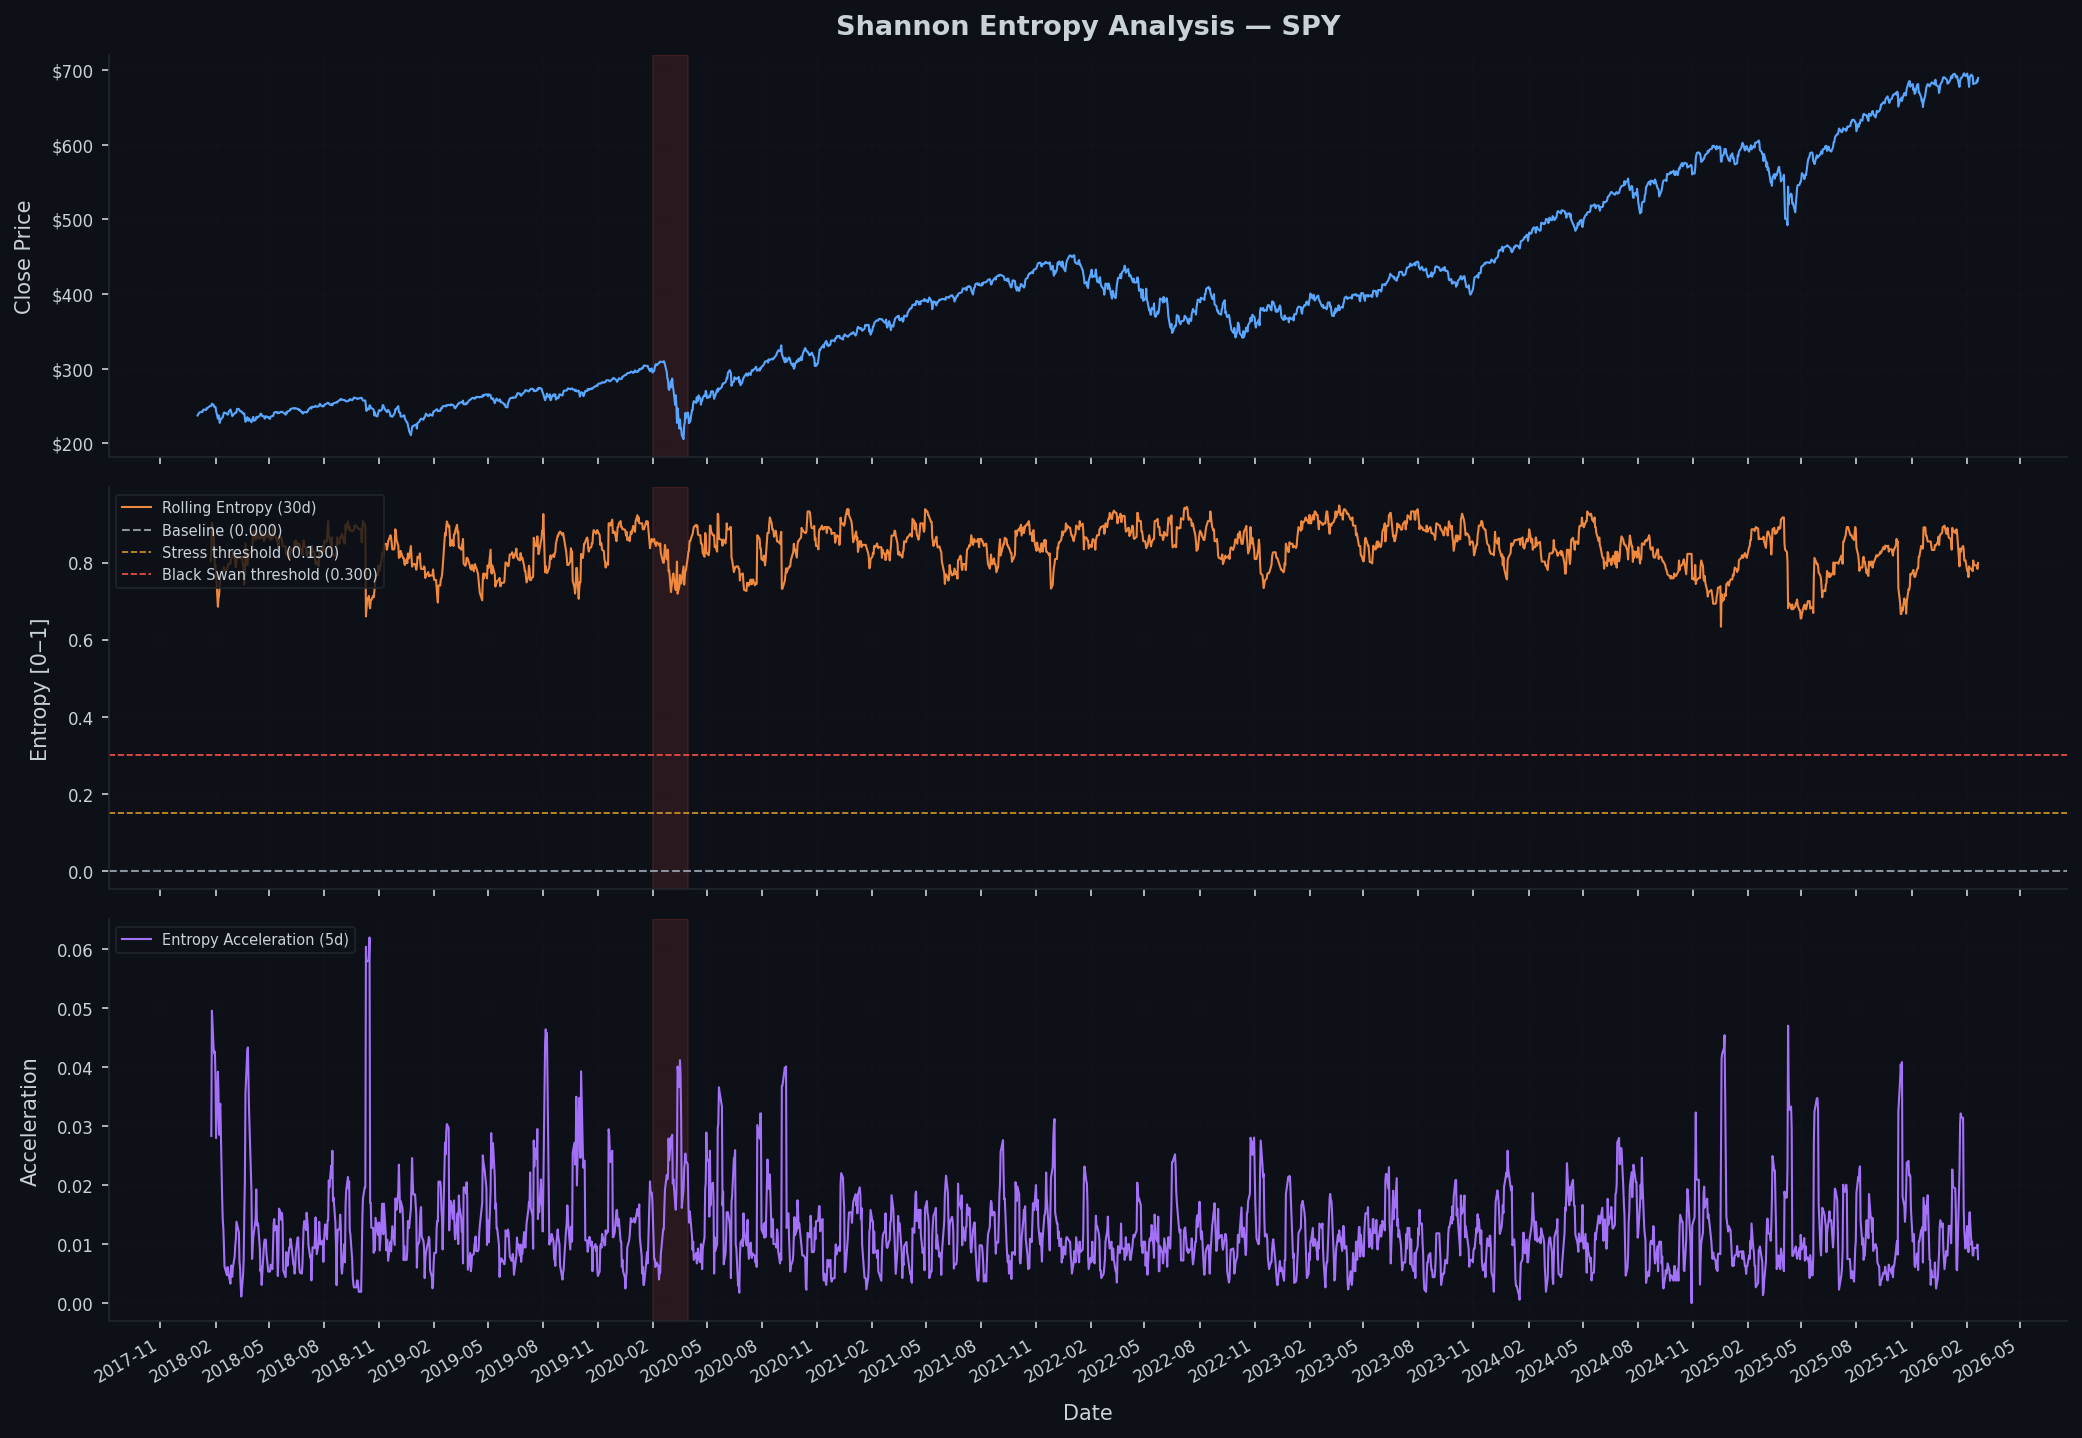
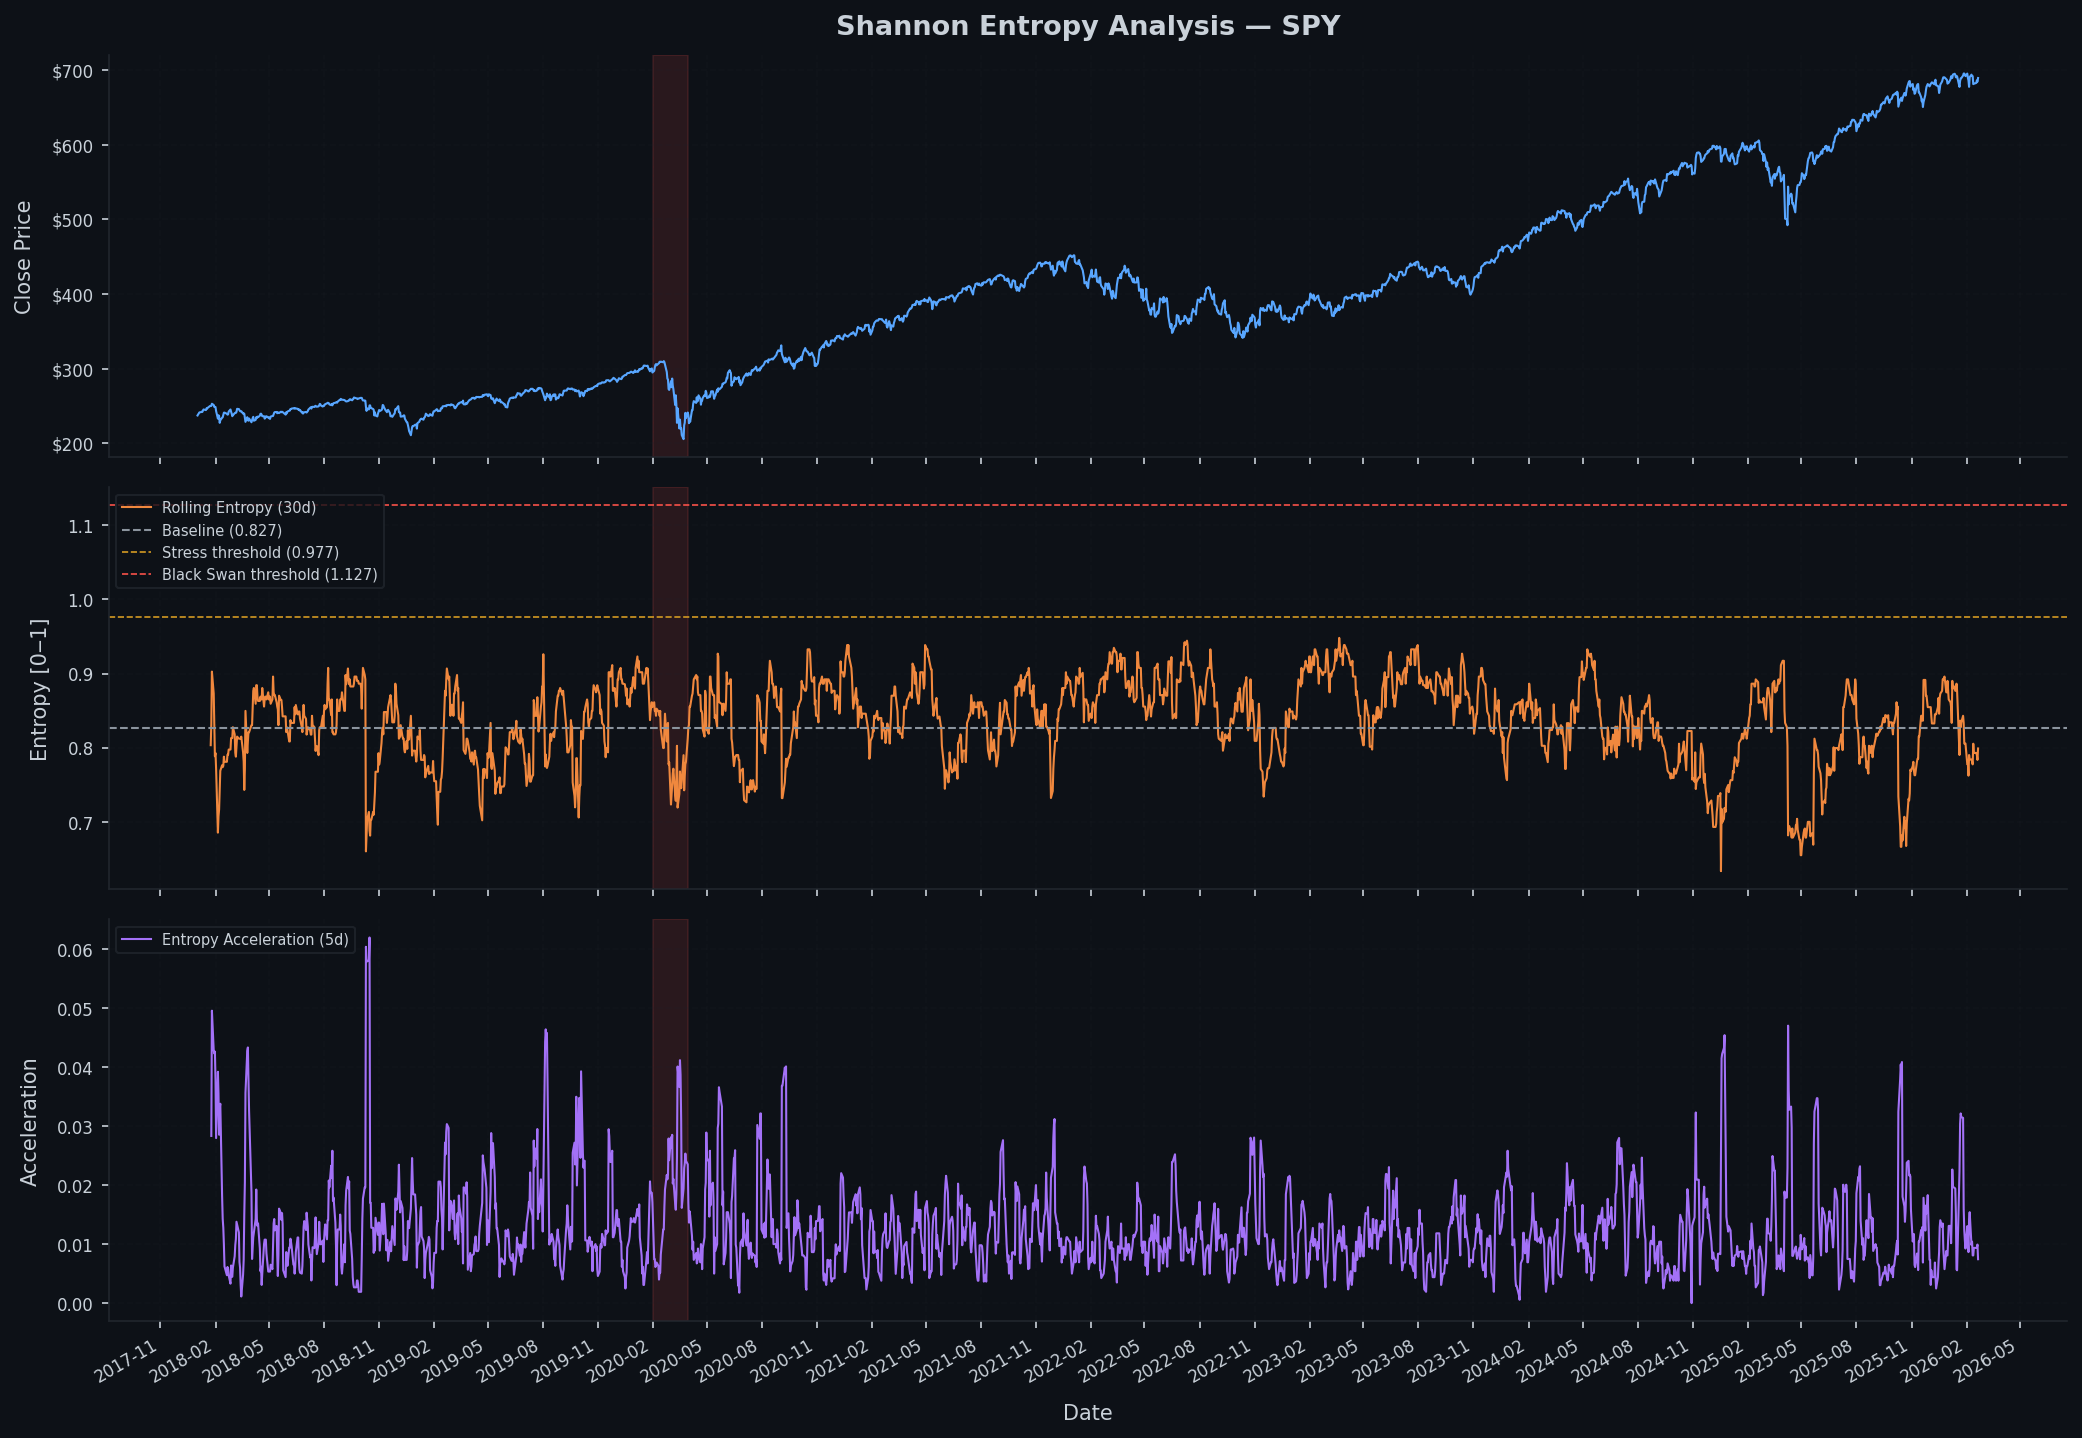
fix(layer3): calibrate baseline entropy using 252-day fallback when period missing

Changed region(s): [[0.0937, 0.4284, 0.9678, 0.5814], [0.0937, 0.3366, 0.6244, 0.4284], [0.6244, 0.3366, 0.9678, 0.4284]]

diff --git a/layer3_bssc/engine/entropy.py b/layer3_bssc/engine/entropy.py
@@ -338,13 +338,30 @@ def run_entropy_analysis(
     rolling_ent = compute_rolling_entropy(log_returns, window=30, n_bins=20)
 
     # --- Baseline entropy (calm period) ---
-    calm_mask = (rolling_ent.index >= calm_start) & (rolling_ent.index <= calm_end)
-    calm_entropy = rolling_ent.loc[calm_mask].dropna()
-    baseline_entropy = float(calm_entropy.mean()) if len(calm_entropy) > 0 else 0.0
+    calm_entropy = rolling_ent.loc[calm_start:calm_end].dropna()
+
+    print(f"[DEBUG] Requested calm period ({calm_start} to {calm_end}) has {len(calm_entropy)} days of data.")
+    
+    if len(calm_entropy) > 0:
+        print(f"[DEBUG] Raw entropy values (first 5): {calm_entropy.head().values}")
+        baseline_entropy = float(calm_entropy.mean())
+        print(f"[DEBUG] Computed mean baseline: {baseline_entropy:.6f}")
+        
+        baseline_period_used = "requested"
+        baseline_start_date = str(calm_entropy.index[0].date())
+        baseline_end_date = str(calm_entropy.index[-1].date())
+    else:
+        print("[WARNING] Calm period slice is empty. Falling back to the first 252 available trading days.")
+        calm_entropy = rolling_ent.dropna().iloc[:252]
+        baseline_entropy = float(calm_entropy.mean()) if len(calm_entropy) > 0 else 0.0
+        print(f"[DEBUG] Fallback mean baseline: {baseline_entropy:.6f}")
+        
+        baseline_period_used = "fallback_first_252_days"
+        baseline_start_date = str(calm_entropy.index[0].date()) if len(calm_entropy) > 0 else calm_start
+        baseline_end_date = str(calm_entropy.index[-1].date()) if len(calm_entropy) > 0 else calm_end
 
     # --- Event entropy ---
-    event_mask = (rolling_ent.index >= event_start) & (rolling_ent.index <= event_end)
-    event_entropy_series = rolling_ent.loc[event_mask].dropna()
+    event_entropy_series = rolling_ent.loc[event_start:event_end].dropna()
     event_entropy = (
         float(event_entropy_series.mean()) if len(event_entropy_series) > 0 else 0.0
     )
@@ -389,6 +406,9 @@ def run_entropy_analysis(
 
     return {
         "baseline_entropy": round(baseline_entropy, 6),
+        "baseline_period_used": baseline_period_used,
+        "baseline_start_date": baseline_start_date,
+        "baseline_end_date": baseline_end_date,
         "event_entropy": round(event_entropy, 6),
         "entropy_delta": round(event_entropy - baseline_entropy, 6),
         "peak_entropy": round(peak_entropy, 6),
